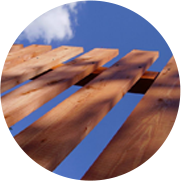
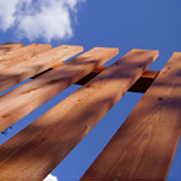
portfolio images

diff --git a/css/style2.css b/css/style2.css
@@ -3623,6 +3623,8 @@ button::-moz-focus-inner {
 	border-top:1px solid #999999;
 }
 .reviewu div.portfolio .more {
+	position:relative;
+	z-index:1;
 	color:#ffffff;
 	font-size:14px;
 	line-height:17px;
@@ -3711,12 +3713,9 @@ button::-moz-focus-inner {
 	right:0;
 	bottom:0;
 	left:0;
-	width:181px;
-	height:181px;
+	width:181px !important;
+	height:181px !important;
 	margin:auto;
-	-webkit-border-radius:50%;
-	-moz-border-radius:50%;
-	border-radius:50%;
 	behavior:url('./pie.htc');
 }
 .reviewu div.portfolio .once .photos  .jcarousel-container {
@@ -3745,9 +3744,6 @@ button::-moz-focus-inner {
 	position:relative;
 	width:51px !important;
 	height:50px !important;
-	-webkit-border-radius:50%;
-	-moz-border-radius:50%;
-	border-radius:50%;
 	behavior:url('./pie.htc');
 }
 .reviewu div.portfolio .once .photos .jcarousel-prev-horizontal {
@@ -6193,6 +6189,11 @@ h4.evaluation .like.active {
 	border-radius:50%;
 	behavior:url('./pie.htc');
 }
+.content .userform.add > div > div.photo img.current {
+	-webkit-border-radius:0;
+	-moz-border-radius:0;
+	border-radius:0;
+}
 .content .userform > div > div.photo p {
 	color:#999999;
 	font-size:14px;
@@ -6258,6 +6259,11 @@ h4.evaluation .like.active {
 	-moz-border-radius:50%;
 	border-radius:50%;
 	behavior:url('./pie.htc');
+}
+.content .userform.add > div > div.photo .modal .crop > .preview {
+	-webkit-border-radius:0;
+	-moz-border-radius:0;
+	border-radius:0;
 }
 .content .userform > div > div.photo .modal .buttons {
 	position:absolute;
